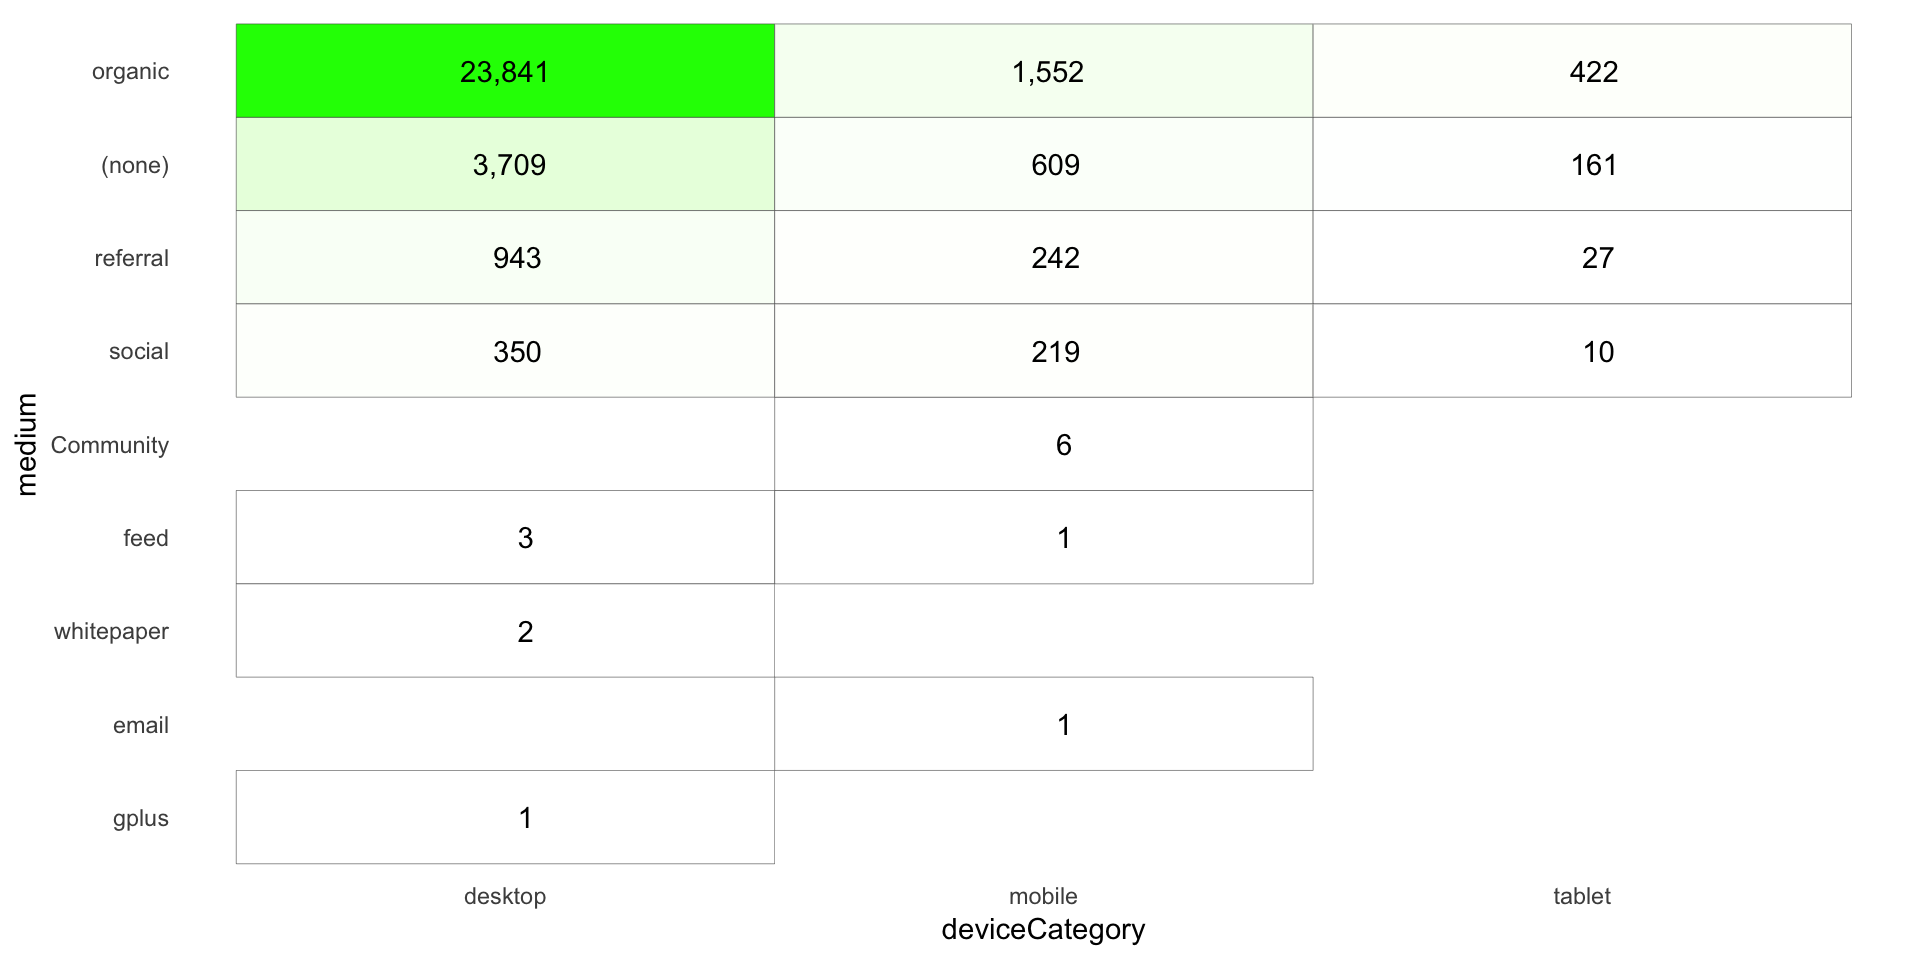
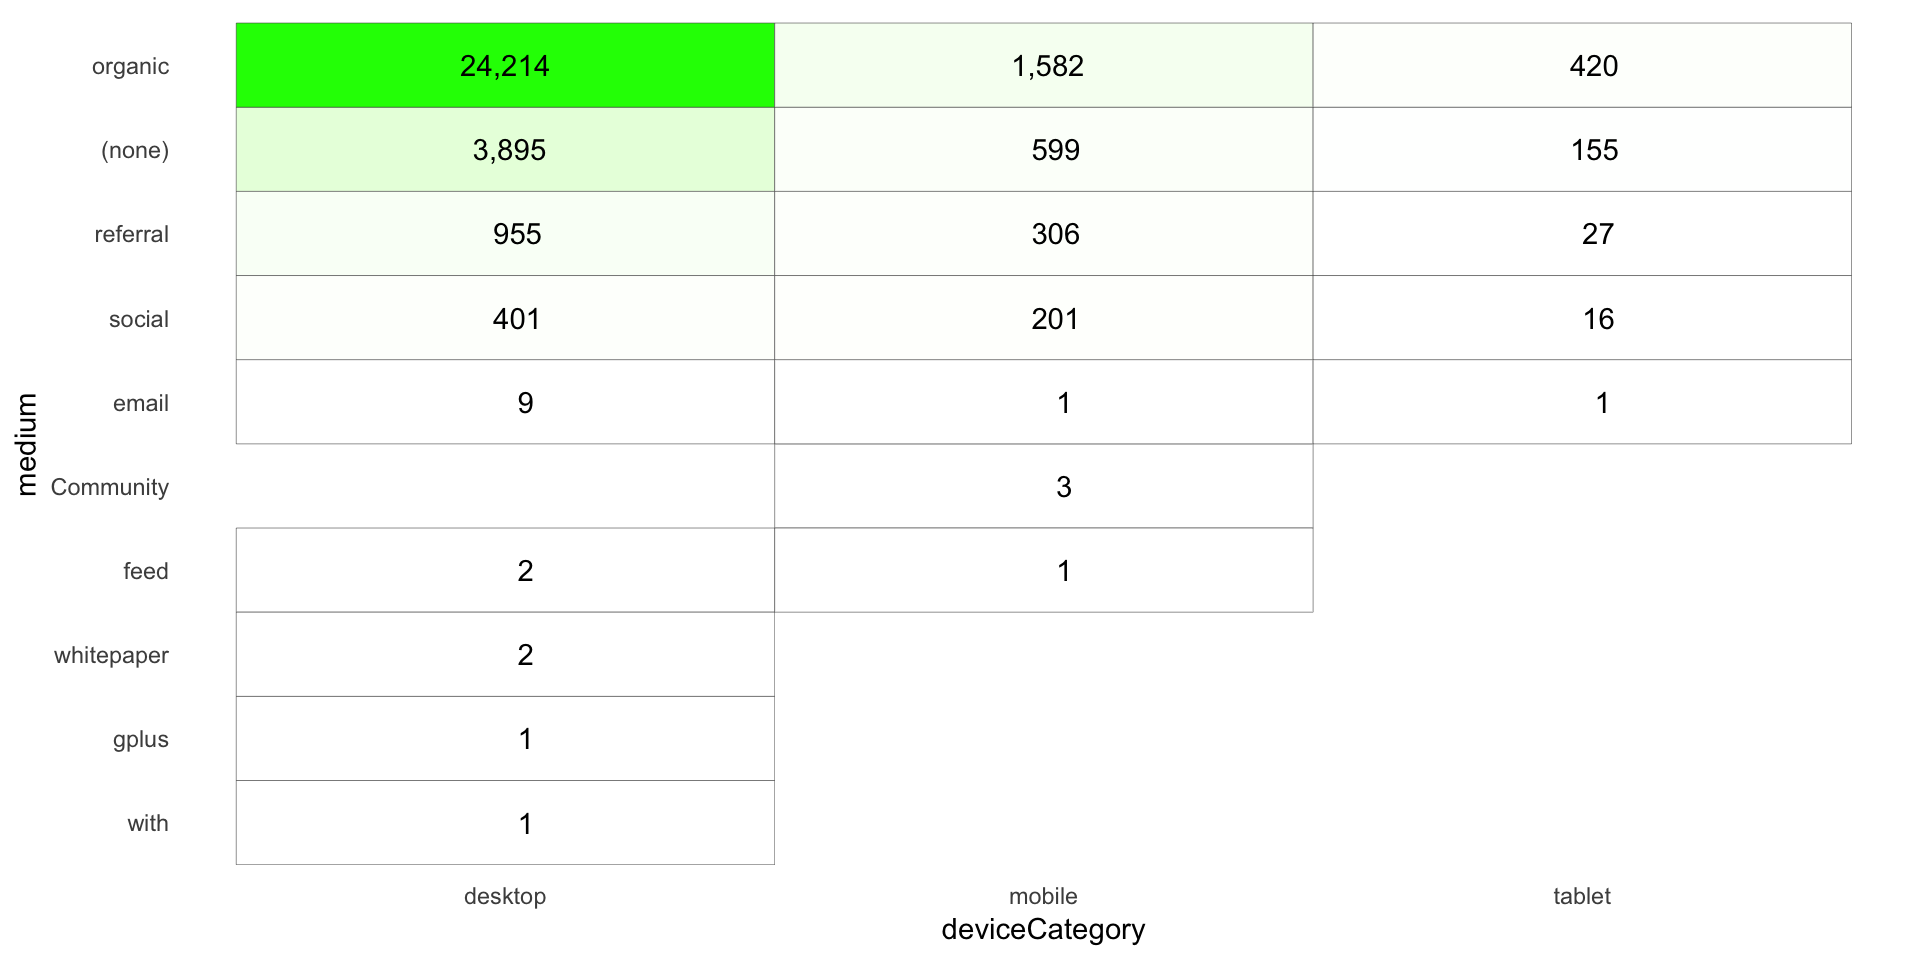
Fixed upside-down strip labels in the sparkline grid example.

diff --git a/googleanalytics/pivot-sparklines-heatmap.html b/googleanalytics/pivot-sparklines-heatmap.html
@@ -333,40 +333,40 @@ head(ga_data)</code></pre>
 </thead>
 <tbody>
 <tr class="odd">
-<td align="left">2017-09-03</td>
+<td align="left">2017-09-10</td>
 <td align="left">(none)</td>
 <td align="left">desktop</td>
-<td align="right">51</td>
+<td align="right">60</td>
 </tr>
 <tr class="even">
-<td align="left">2017-09-03</td>
+<td align="left">2017-09-10</td>
 <td align="left">(none)</td>
 <td align="left">mobile</td>
-<td align="right">18</td>
+<td align="right">16</td>
 </tr>
 <tr class="odd">
-<td align="left">2017-09-03</td>
+<td align="left">2017-09-10</td>
 <td align="left">(none)</td>
 <td align="left">tablet</td>
-<td align="right">4</td>
+<td align="right">7</td>
 </tr>
 <tr class="even">
-<td align="left">2017-09-03</td>
+<td align="left">2017-09-10</td>
+<td align="left">Community</td>
+<td align="left">mobile</td>
+<td align="right">2</td>
+</tr>
+<tr class="odd">
+<td align="left">2017-09-10</td>
 <td align="left">organic</td>
 <td align="left">desktop</td>
-<td align="right">296</td>
-</tr>
-<tr class="odd">
-<td align="left">2017-09-03</td>
-<td align="left">organic</td>
-<td align="left">mobile</td>
-<td align="right">30</td>
+<td align="right">309</td>
 </tr>
 <tr class="even">
-<td align="left">2017-09-03</td>
+<td align="left">2017-09-10</td>
 <td align="left">organic</td>
-<td align="left">tablet</td>
-<td align="right">12</td>
+<td align="left">mobile</td>
+<td align="right">37</td>
 </tr>
 </tbody>
 </table>
@@ -426,32 +426,32 @@ head(ga_data_totals)</code></pre>
 <tr class="odd">
 <td align="left">(none)</td>
 <td align="left">desktop</td>
-<td align="right">3709</td>
+<td align="right">3895</td>
 </tr>
 <tr class="even">
 <td align="left">(none)</td>
 <td align="left">mobile</td>
-<td align="right">609</td>
+<td align="right">599</td>
 </tr>
 <tr class="odd">
 <td align="left">(none)</td>
 <td align="left">tablet</td>
-<td align="right">161</td>
+<td align="right">155</td>
 </tr>
 <tr class="even">
 <td align="left">Community</td>
 <td align="left">mobile</td>
-<td align="right">6</td>
+<td align="right">3</td>
 </tr>
 <tr class="odd">
 <td align="left">email</td>
-<td align="left">mobile</td>
-<td align="right">1</td>
+<td align="left">desktop</td>
+<td align="right">9</td>
 </tr>
 <tr class="even">
-<td align="left">feed</td>
-<td align="left">desktop</td>
-<td align="right">3</td>
+<td align="left">email</td>
+<td align="left">mobile</td>
+<td align="right">1</td>
 </tr>
 </tbody>
 </table>
@@ -500,7 +500,7 @@ gg_sparklines &lt;- ggplot(ga_data, mapping=aes(x = date, y = sessions)) +
         panel.background = element_blank(),
         strip.background = element_blank(),
         strip.text = element_text(colour = &quot;black&quot;),
-        strip.text.y = element_text(angle = 0, hjust = 1),
+        strip.text.y = element_text(angle = 180, hjust = 1),
         axis.ticks = element_blank(),
         axis.text = element_blank(),
         axis.title.x = element_blank())
